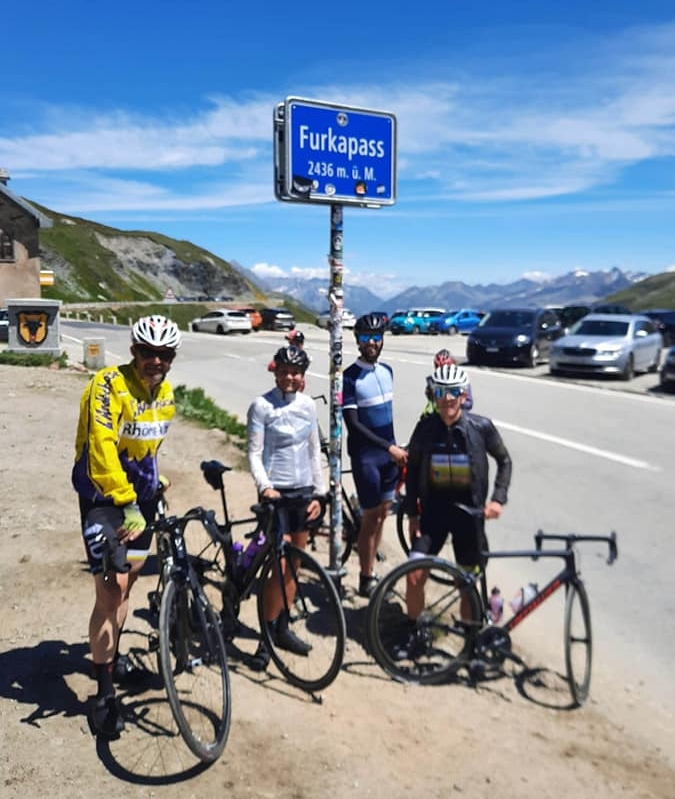
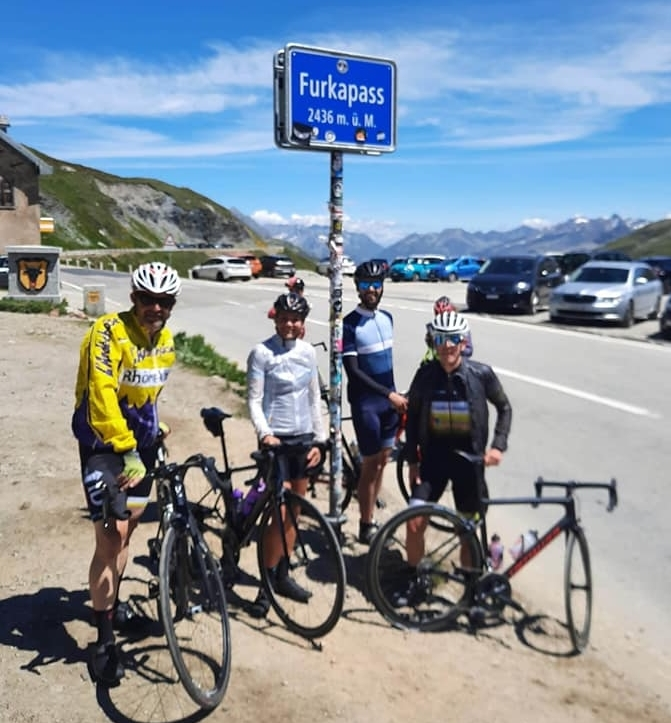
add element to center imgs

diff --git a/assets/css/theme.css b/assets/css/theme.css
@@ -1202,3 +1202,11 @@ iframe {
 .footer  .row{ display: flex; align-items: center;}
 
 /* END OF VERY END FOOTER */
+
+
+
+.center-image
+{
+    margin: 0 auto;
+    display: block;
+}

diff --git a/_posts/2020-07-20-dimanche_helvete.md b/_posts/2020-07-20-dimanche_helvete.md
@@ -14,12 +14,12 @@ Si Thibaud est allé transpirer sur une ascension valaisaine, d'autres altkircho
 
 Au total, près de 100km, 2900m de dénivelé positif, quelques litres de sueur mais surtout beaucoup d'étoiles dans les yeux devant les sublimes panoramas offerts !
 
-![Furkapass]({{ site.baseurl }}assets/images/20_Gotthard3.jpg)
-![Furkapass]({{ site.baseurl }}assets/images/20_Gotthard1.jpg)
+![Furkapass]({{ site.baseurl }}assets/images/20_Gotthard3.jpg){: .center-image }
+![Furkapass]({{ site.baseurl }}assets/images/20_Gotthard1.jpg){: .center-image }
 _En raison de la difficulté du parcours, deux groupes distincts sont partis à des horaires différents de sorte à terminer ensemble._
 
-![Nufenenpass]({{ site.baseurl }}assets/images/20_Gotthard2.jpg)
-![Gotthardpass]({{ site.baseurl }}assets/images/20_Gotthard4.jpg)
+![Nufenenpass]({{ site.baseurl }}assets/images/20_Gotthard2.jpg){: .center-image }
+![Gotthardpass]({{ site.baseurl }}assets/images/20_Gotthard4.jpg){: .center-image }
 _Le Nufenenpass, sans doute le plus difficile des trois cols, a bien fatigué les altkirchois avant que les pavés et lacets du Gotthard, aussi magnifiques qu'exigeants, ne se soient chargés de les achever !_
 
 
